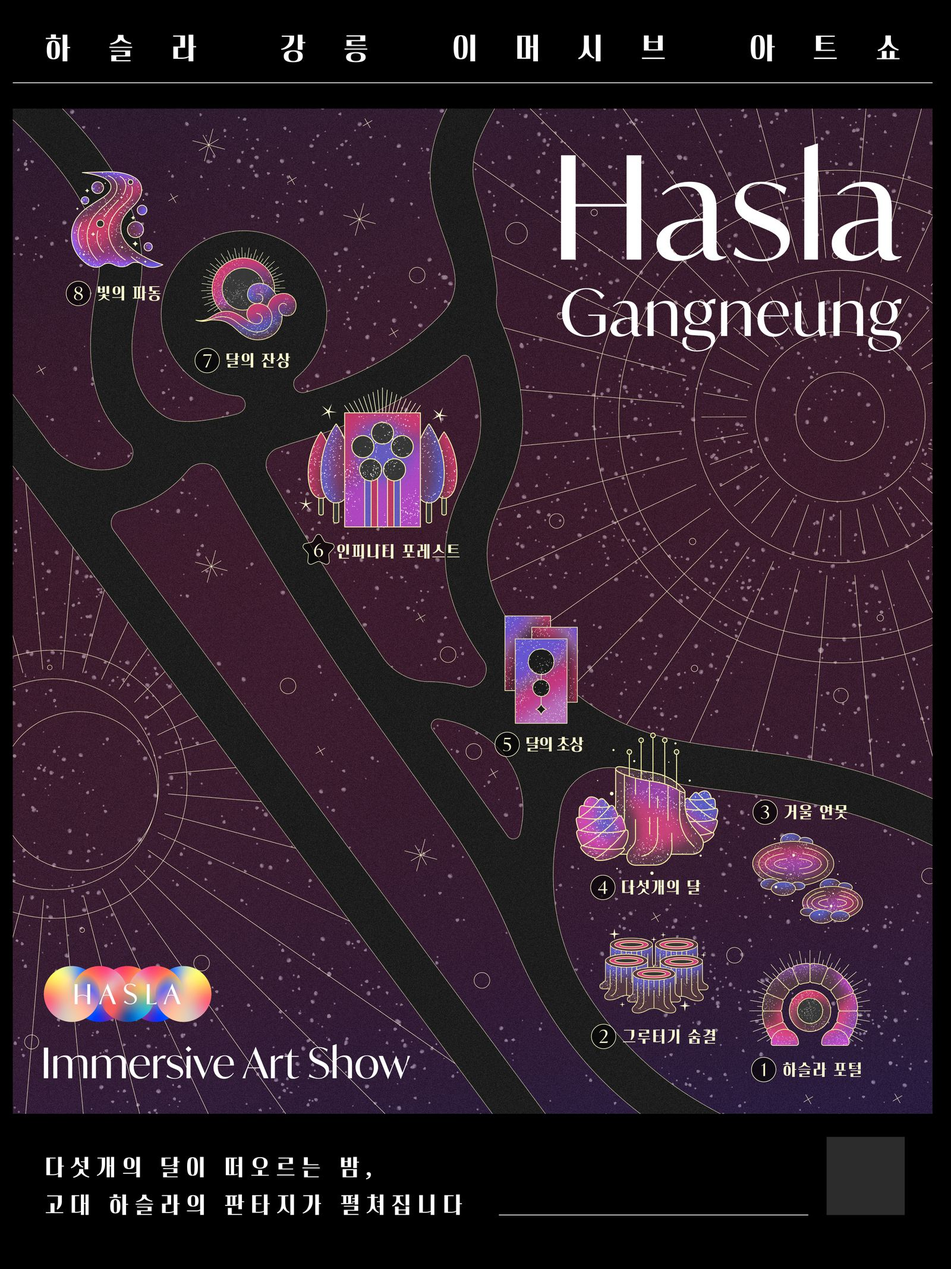
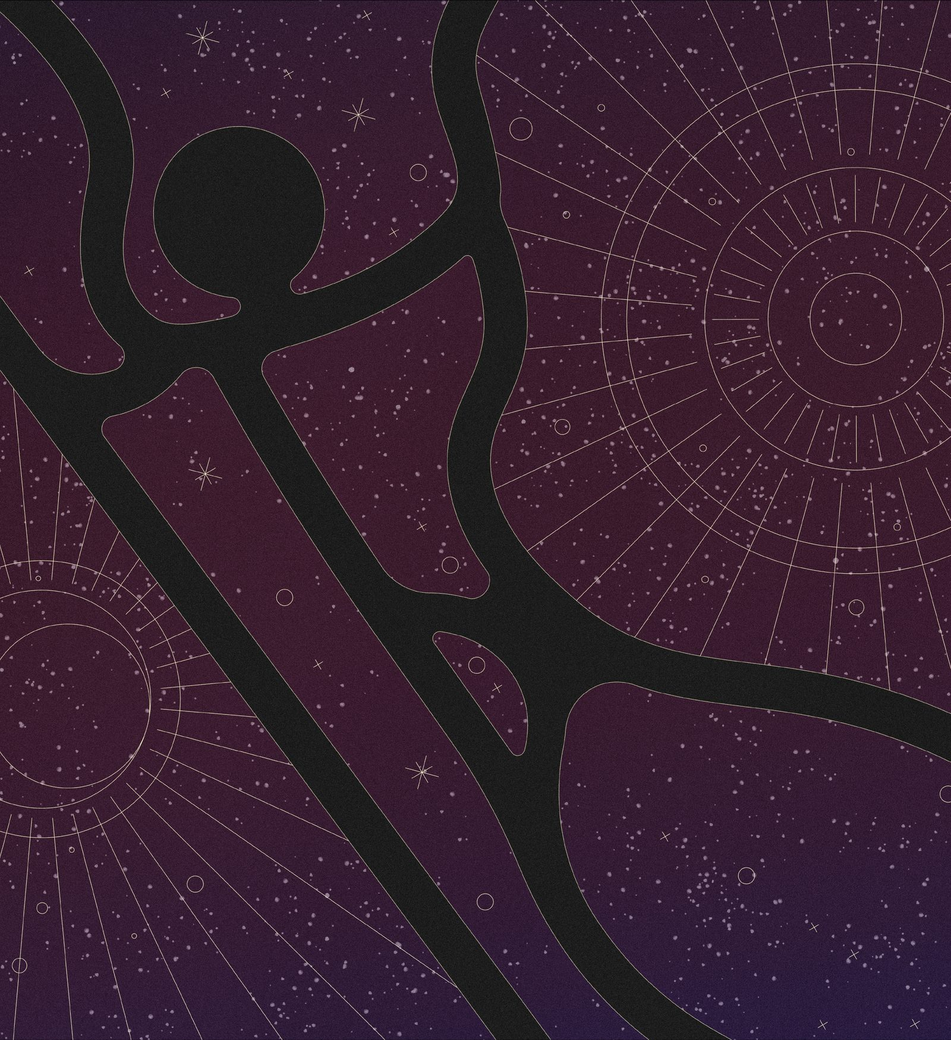
feat(map): swap to clean background, no more illustration doubling
- Replace map.jpg with clean 지도배경.png (paths/stars only, no zone art)
- Update container aspect 3:4 → 1600:1749 (matches new bg)
- Icons sit cleanly on the background without overlay duplication

diff --git a/src/app/map/MapPageClient.tsx b/src/app/map/MapPageClient.tsx
@@ -93,7 +93,7 @@ export default function MapPageClient({ zones }: Props) {
 function MapView({ zones, lang, t }: { zones: Zone[]; lang: Lang; t: ReturnType<typeof useLang>['t'] }) {
   return (
     <section className="mx-auto mt-4 max-w-md px-4">
-      <div className="relative aspect-[3/4] w-full overflow-hidden rounded-2xl border border-border bg-card">
+      <div className="relative aspect-[1600/1749] w-full overflow-hidden rounded-2xl border border-border bg-card">
         <Image
           src="/images/map.jpg"
           alt={t.metaTitle}
